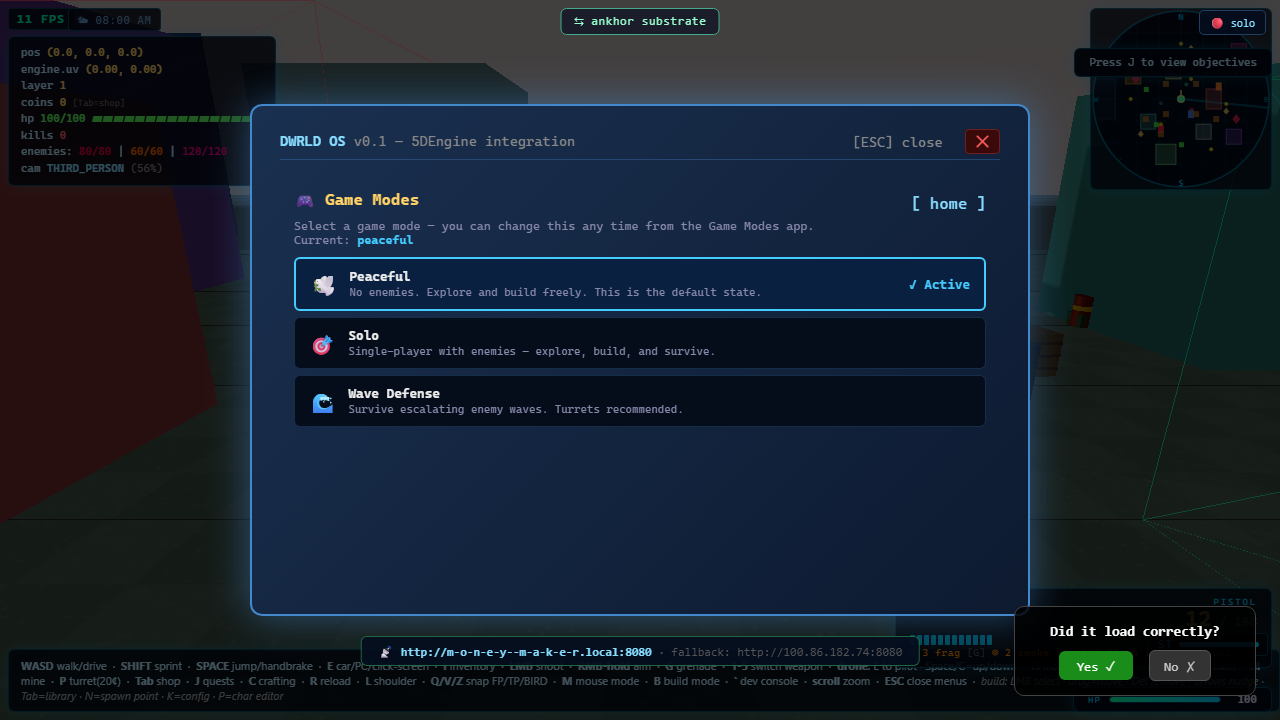
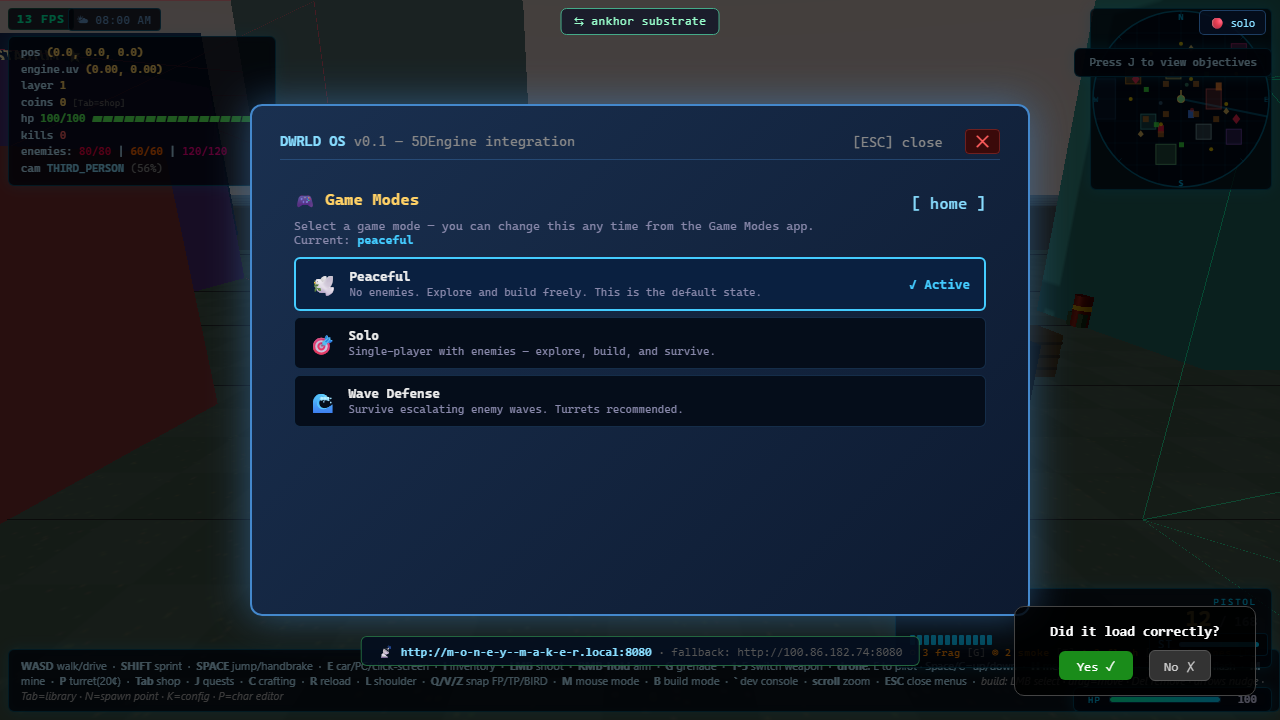
iter 960: keyboard+mouse adapter — hero moves with WASD, mouse look

diff --git a/index.html b/index.html
@@ -60,7 +60,6 @@ setBoot("ankhor • booting…");
 // from now on the overlay always tells you what happened.
 try {
   const ankhor = await boot({
-    canvas:   document.getElementById("stage"),
     onReady({ stats }) {
       const lb = stats?.legacyBound ?? 0, lt = stats?.legacyTotal ?? 0;
       const live = stats?.materialized ?? "?";
@@ -70,6 +69,34 @@ try {
     }
   });
   window.Ankhor = ankhor;
+
+  // --- Keyboard adapter ---
+  const keys = {};
+  window.addEventListener('keydown', e => { keys[e.code] = true; });
+  window.addEventListener('keyup', e => { keys[e.code] = false; });
+  
+  // Mouse look adapter
+  let yaw = 0, pitch = 0;
+  const canvas = document.getElementById("stage");
+  canvas.addEventListener('click', () => canvas.requestPointerLock());
+  document.addEventListener('mousemove', e => {
+    if (document.pointerLockElement === canvas) {
+      yaw -= e.movementX * 0.0035;
+      pitch = Math.max(-1.4, Math.min(0.4, pitch - e.movementY * 0.0035));
+    }
+  });
+
+  // Feed input-state facet every frame
+  const originalTick = ankhor.tick.bind(ankhor);
+  ankhor.tick = function(dt) {
+    const inputs = ankhor.byKind("input");
+    if (inputs.length) {
+      const fd = ankhor.facetData(inputs[0].id, "input-state");
+      if (fd) { fd.keys = {...keys}; fd.yaw = yaw; fd.pitch = pitch; }
+    }
+    return originalTick(dt);
+  };
+  // --- End keyboard adapter ---
 } catch (e) {
   console.error("[boot] FATAL:", e);
   setBoot(`<span style="color:#ff6666">ankhor boot FAILED:</span> ${(e && e.message) || e} · <a href="./game.html">→ game.html</a>`);